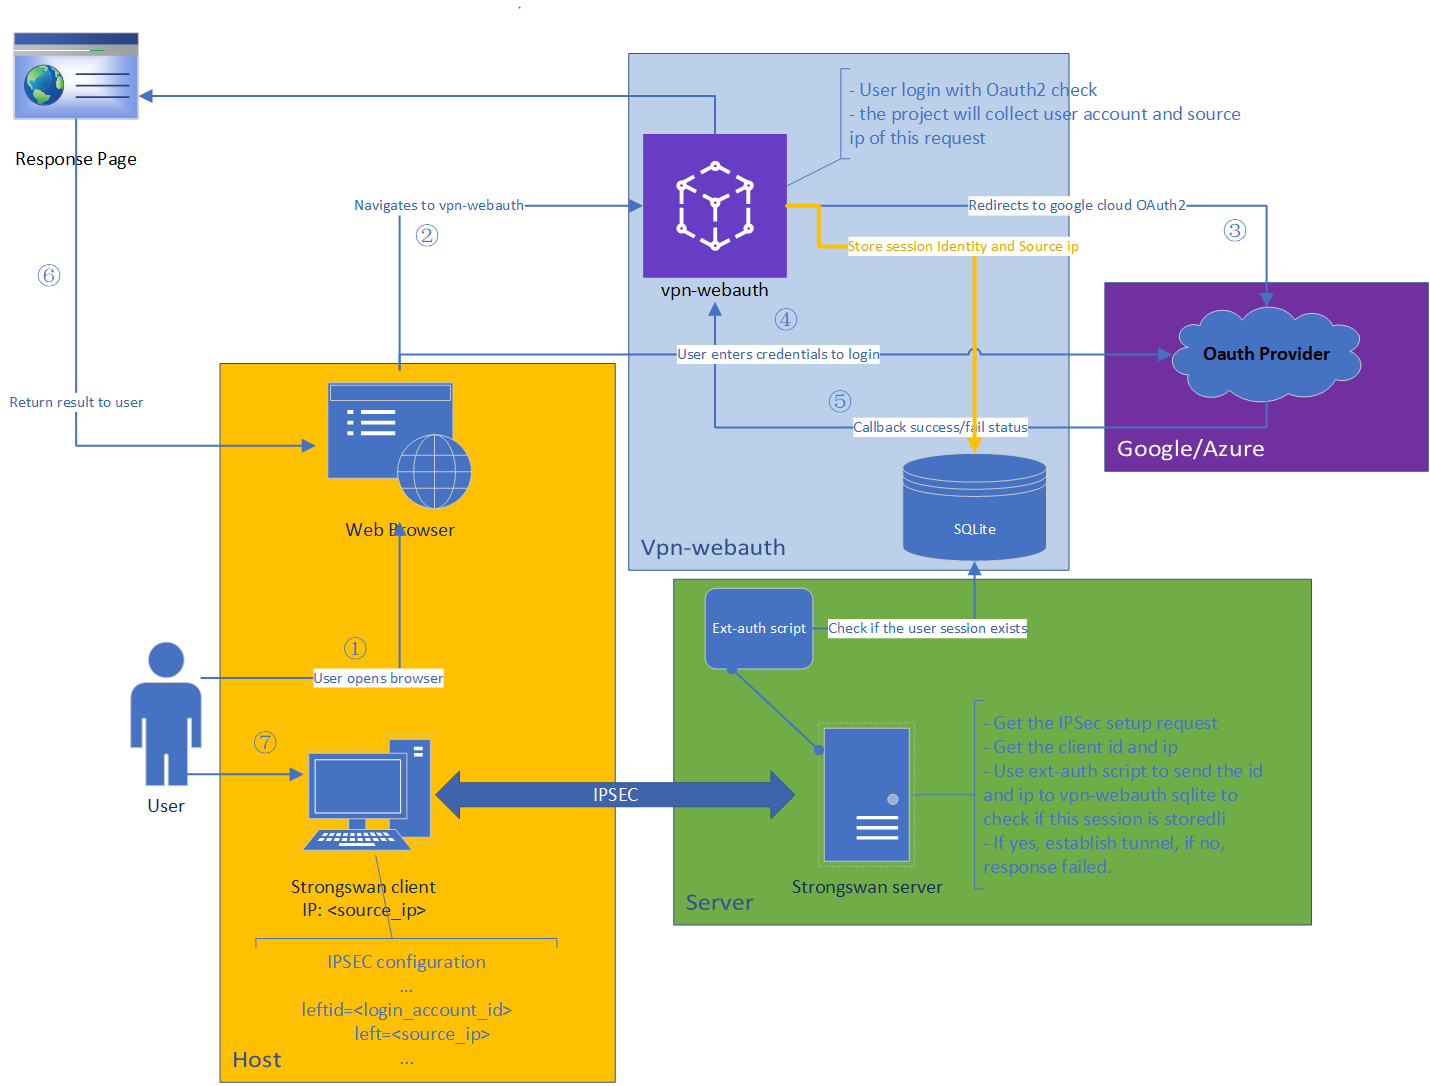
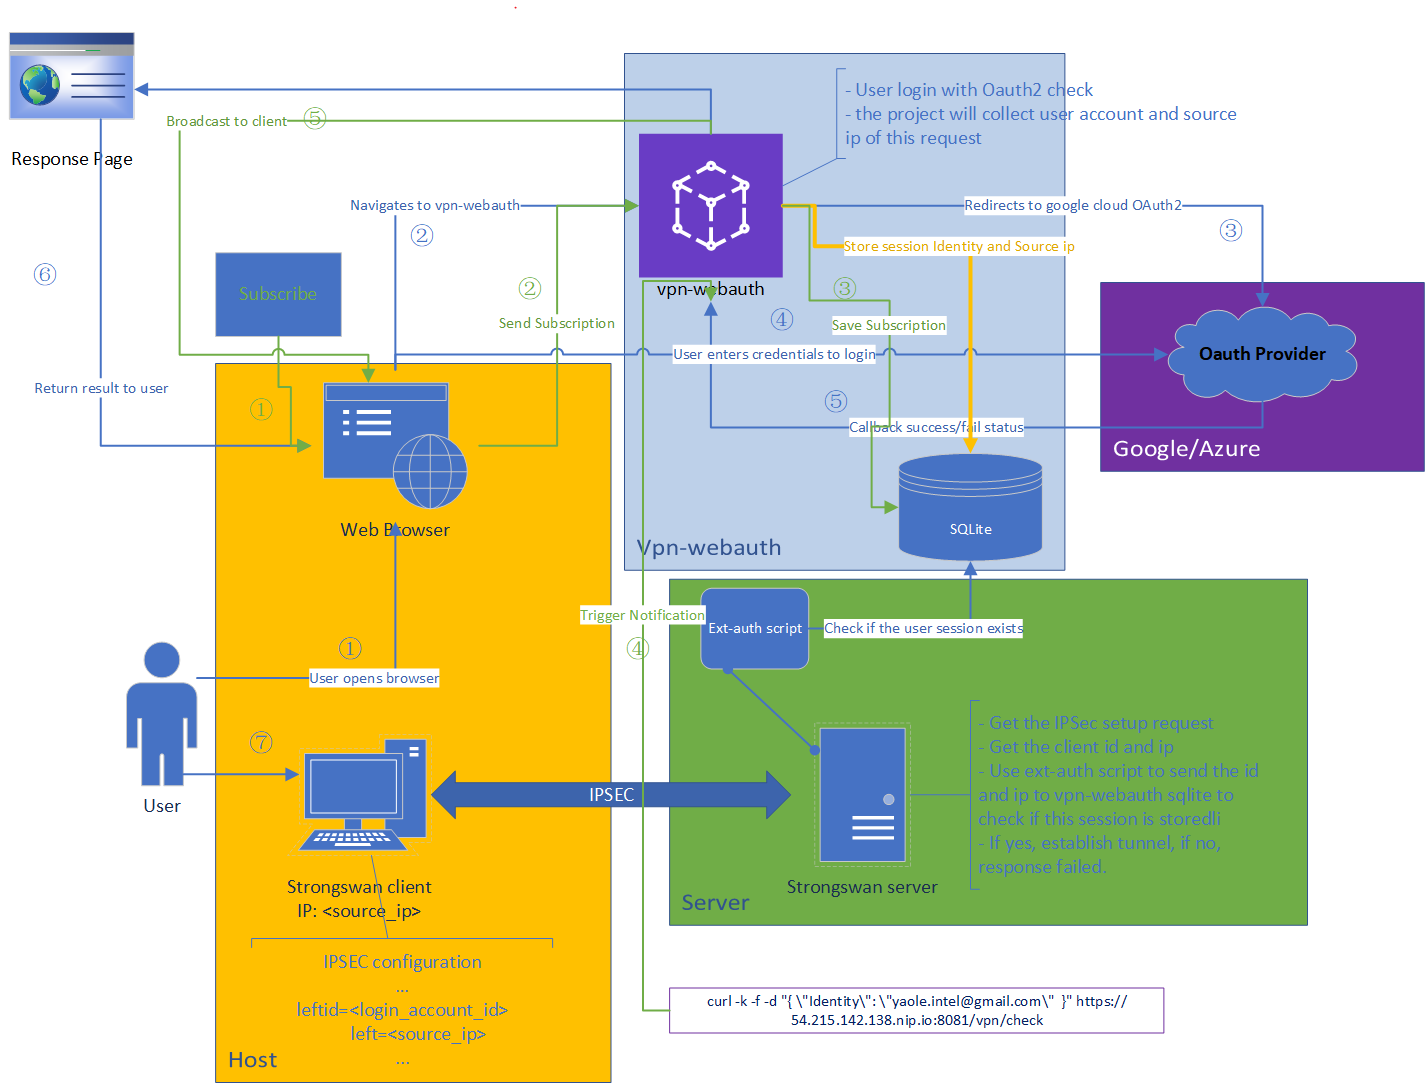
Update the notification section

diff --git a/_posts/2022-08-15-vpn-webauth-integration.md b/_posts/2022-08-15-vpn-webauth-integration.md
@@ -154,6 +154,8 @@ The script will gather and send the following JSON data to `/vpn/check` and then
 
 ## Notification
 
+As the topology diagram shows, the green line explain the flow of the notification.
+
 ### Configuration
 Firstly, we should configure the server side `vpn-webauth` to a https server to enable notification because modern browser always ask a https connection to trust the sites.
 
@@ -170,10 +172,15 @@ export REDIRECTDOMAIN="https:://<vpn-webauth-service>"
 
 # Enable the notifications
 export ENABLENOTIFICATIONS=true
+
+# Currently Google Chrome, Firefox and Edge support notifications and automated VPN session renewal without meeding to keep this app opened. Safari requires the user to keep a tab open.
 ```
 
 ### Browser setup
 
 To enable notification, we should allow the permission to the `vpn-webauth` site, when we firstly login to the `vpn-webauth`, it will ask for the notification permission, and we should allow it. Or you can manually setup the notification allowed in browser. (eg. Chrome -> Settings -> Privacy and security -> Site settings -> Permissions -> Notifications)
+
+And when we login into the `vpn-webauth`, the session will be verified by two pre-configuration in `vpn-webauth`, the WEBSESSIONVALIDITY and VPNSESSIONVALIDITY, after registering or signing in, users will be shown a message inviting them to enable notifications for the app. If they accept, when they attempt to connect to the VPN without a valid web session, they will receive a notification letting them know that they need to sign in for the VPN connection to be authorized. Additionally, if their VPN session is expired (VPNSESSIONVALIDITY) but they still have a valid web session (WEBSESSIONVALIDITY), their next attempt to connect to the VPN will try to transparently ask the browser used to sign in to prove that it still holds a valid session and has the same source IP as the VPN connection attempt. If so, the VPN connection will be automatically allowed and a new VPN "session" created without any intervention. (The browser must be running even without this application opened).
+
 
 ---
